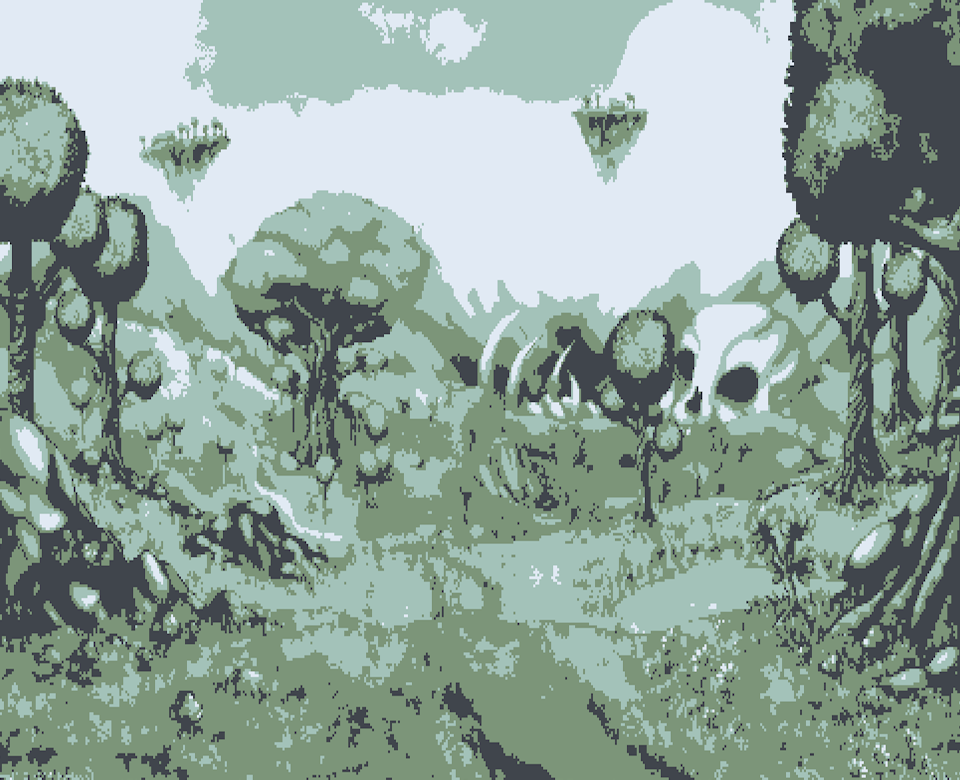
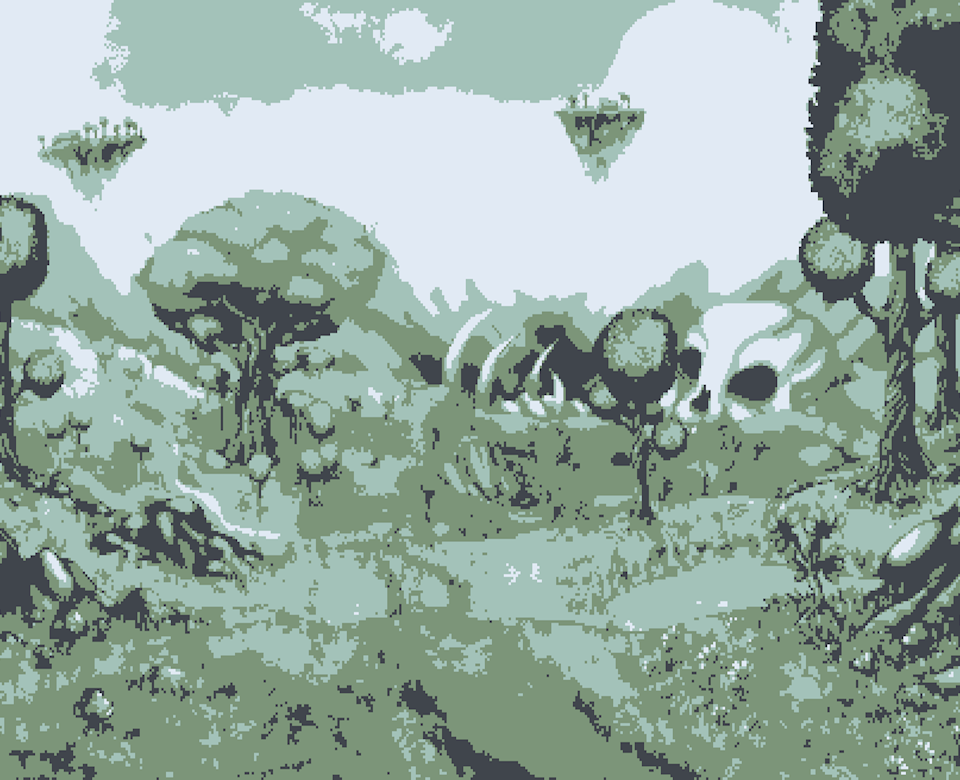
Added a new texture pack.

diff --git a/Honehoover/Honehoover/init.cpp b/Honehoover/Honehoover/init.cpp
@@ -17,28 +17,62 @@ SDL_Texture* Game::loadTexture(const string& path) {
     return texture;
 }
 
-void Game::loadTextures() {
-    textures["antiq"] = loadTexture("../resources/image/antiq.png");
-    textures["cross"] = loadTexture("../resources/image/cross.png");
-    textures["frame"] = loadTexture("../resources/image/frame.png");
-    textures["grass"] = loadTexture("../resources/image/grass.png");
-    textures["clean"] = loadTexture("../resources/image/clean.png");
-    textures["pylon"] = loadTexture("../resources/image/pylon.png");
-    textures["steel"] = loadTexture("../resources/image/steel.png");
-    textures["btton"] = loadTexture("../resources/image/btton.png");
-    textures["bttn1"] = loadTexture("../resources/image/bttn1.png");
-    textures["bttn2"] = loadTexture("../resources/image/bttn2.png");
-    textures["mmnbg"] = loadTexture("../resources/image/mmnbg.png");
-    textures["ldbbg"] = loadTexture("../resources/image/ldbbg.png");
+void Game::loadFonts() {
+    if (altTexture == false) {
+        font = TTF_OpenFont("../resources/font/YomiyasuSansSerif-Rounded.otf", 34);
+    }
+    else {
+        font = TTF_OpenFont("../resources/font/SmashSans-Metaverse.otf", 34);
+    }
+}
 
-    textures["music_on"] = loadTexture("../resources/image/music_on.png");
-    textures["music_off"] = loadTexture("../resources/image/music_off.png");
-    textures["sound_on"] = loadTexture("../resources/image/sound_on.png");
-    textures["sound_off"] = loadTexture("../resources/image/sound_off.png");
-    textures["extra_life_on"] = loadTexture("../resources/image/extralive_on.png");
-    textures["extra_life_off"] = loadTexture("../resources/image/extralive_off.png");
-    textures["textures_on"] = loadTexture("../resources/image/texture_on.png");
-    textures["textures_off"] = loadTexture("../resources/image/texture_off.png");
+void Game::loadTextures() {
+    if (altTexture == false) {
+        textures["antiq"] = loadTexture("../resources/image/antiq.png");
+        textures["cross"] = loadTexture("../resources/image/cross.png");
+        textures["frame"] = loadTexture("../resources/image/frame.png");
+        textures["grass"] = loadTexture("../resources/image/grass.png");
+        textures["clean"] = loadTexture("../resources/image/clean.png");
+        textures["pylon"] = loadTexture("../resources/image/pylon.png");
+        textures["steel"] = loadTexture("../resources/image/steel.png");
+        textures["btton"] = loadTexture("../resources/image/btton.png");
+        textures["bttn1"] = loadTexture("../resources/image/bttn1.png");
+        textures["bttn2"] = loadTexture("../resources/image/bttn2.png");
+        textures["mmnbg"] = loadTexture("../resources/image/mmnbg.png");
+        textures["ldbbg"] = loadTexture("../resources/image/ldbbg.png");
+
+        textures["music_on"] = loadTexture("../resources/image/music_on.png");
+        textures["music_off"] = loadTexture("../resources/image/music_off.png");
+        textures["sound_on"] = loadTexture("../resources/image/sound_on.png");
+        textures["sound_off"] = loadTexture("../resources/image/sound_off.png");
+        textures["extra_life_on"] = loadTexture("../resources/image/extralive_on.png");
+        textures["extra_life_off"] = loadTexture("../resources/image/extralive_off.png");
+        textures["textures_on"] = loadTexture("../resources/image/texture_on.png");
+        textures["textures_off"] = loadTexture("../resources/image/texture_off.png");
+    } else
+    {
+        textures["antiq"] = loadTexture("../resources/image/antiq2.png");
+        textures["cross"] = loadTexture("../resources/image/cross2.png");
+        textures["frame"] = loadTexture("../resources/image/frame2.png");
+        textures["grass"] = loadTexture("../resources/image/grass2.png");
+        textures["clean"] = loadTexture("../resources/image/clean2.png");
+        textures["pylon"] = loadTexture("../resources/image/pylon2.png");
+        textures["steel"] = loadTexture("../resources/image/steel2.png");
+        textures["btton"] = loadTexture("../resources/image/btton2.png");
+        textures["bttn1"] = loadTexture("../resources/image/bttn12.png");
+        textures["bttn2"] = loadTexture("../resources/image/bttn22.png");
+        textures["mmnbg"] = loadTexture("../resources/image/mmnbg2.png");
+        textures["ldbbg"] = loadTexture("../resources/image/ldbbg2.png");
+
+        textures["music_on"] = loadTexture("../resources/image/music_on2.png");
+        textures["music_off"] = loadTexture("../resources/image/music_off2.png");
+        textures["sound_on"] = loadTexture("../resources/image/sound_on2.png");
+        textures["sound_off"] = loadTexture("../resources/image/sound_off2.png");
+        textures["extra_life_on"] = loadTexture("../resources/image/extralive_on2.png");
+        textures["extra_life_off"] = loadTexture("../resources/image/extralive_off2.png");
+        textures["textures_on"] = loadTexture("../resources/image/texture_on2.png");
+        textures["textures_off"] = loadTexture("../resources/image/texture_off2.png");
+    }
 }
 
 void Game::renderTexture(const string& textureId, int x, int y, int width, int height) {

diff --git a/Honehoover/src/game.cpp b/Honehoover/src/game.cpp
@@ -4,7 +4,7 @@
 using namespace std;
 
 Game::Game() : window(nullptr), renderer(nullptr), font(nullptr), currentState(GameState::MAIN_MENU), board(12, 9, 4),
-               currentDifficulty(), gameWon(false),
+               currentDifficulty(), gameWon(false), altTexture(false),
                elapsedSeconds(0), finalTime(0), remainingFlags(0), isNewHighScore(false)
 {
     loadHighScores();
@@ -12,8 +12,8 @@ Game::Game() : window(nullptr), renderer(nullptr), font(nullptr), currentState(G
 	startButton = {{SCREEN_WIDTH / 2 - BUTTON_WIDTH / 2, 200, BUTTON_WIDTH, BUTTON_HEIGHT}, "Start Game"};
 	highScoresButton = {{SCREEN_WIDTH / 2 + BUTTON_WIDTH / 16, 300, BUTTON_WIDTH, BUTTON_HEIGHT},"High Scores"};
 	quitButton = {{SCREEN_WIDTH / 2 + BUTTON_WIDTH / 16, 400, BUTTON_WIDTH, BUTTON_HEIGHT}, "      Quit   "};
-    tutorialButton = { {SCREEN_WIDTH / 2 - BUTTON_WIDTH / 16 - BUTTON_WIDTH, 300, BUTTON_WIDTH, BUTTON_HEIGHT},"   Tutorial" };
-    settingButton = { {SCREEN_WIDTH / 2 - BUTTON_WIDTH / 16 - BUTTON_WIDTH, 400, BUTTON_WIDTH, BUTTON_HEIGHT}, "    Setting" };
+    tutorialButton = { {SCREEN_WIDTH / 2 - BUTTON_WIDTH / 16 - BUTTON_WIDTH, 300, BUTTON_WIDTH, BUTTON_HEIGHT},"  Tutorial" };
+    settingButton = { {SCREEN_WIDTH / 2 - BUTTON_WIDTH / 16 - BUTTON_WIDTH, 400, BUTTON_WIDTH, BUTTON_HEIGHT}, "   Setting" };
     
 	newGameButton = {{SCREEN_WIDTH / 2 - BUTTON_WIDTH / 2, 300, BUTTON_WIDTH, BUTTON_HEIGHT}, "New Game"};
 	backButton = { {20, SCREEN_HEIGHT + 10, BUTTON_WIDTH / 2, BUTTON_HEIGHT / 2} };
@@ -27,7 +27,7 @@ Game::Game() : window(nullptr), renderer(nullptr), font(nullptr), currentState(G
     soundToggle = { {SCREEN_WIDTH / 2+20, SCREEN_HEIGHT / 4 - BUTTON_HEIGHT / 2, BUTTON_WIDTH, BUTTON_HEIGHT}, true, "sound", "Sound Effects" };
     extraLifeToggle = { {BUTTON_WIDTH/2 , SCREEN_HEIGHT / 2 - BUTTON_HEIGHT / 2, BUTTON_WIDTH, BUTTON_HEIGHT}, board.isLifeCheat(), "extra_life", "Extra Life" };
     texturesToggle = { {SCREEN_WIDTH / 2+20, SCREEN_HEIGHT / 2 - BUTTON_HEIGHT / 2, BUTTON_WIDTH, BUTTON_HEIGHT}, false, "textures", "Alt Textures" };
-    creditsButton = { {SCREEN_WIDTH / 2 - BUTTON_WIDTH / 2, SCREEN_HEIGHT / 2 + 2*BUTTON_HEIGHT, BUTTON_WIDTH, BUTTON_HEIGHT}, "Credits" };
+    creditsButton = { {SCREEN_WIDTH / 2 - BUTTON_WIDTH / 2, SCREEN_HEIGHT / 2 + 2*BUTTON_HEIGHT, BUTTON_WIDTH, BUTTON_HEIGHT}, "   Credits" };
 }
 
 Game::~Game() {
@@ -73,7 +73,7 @@ bool Game::initSDL() {
         return false;
     }
 
-    font = TTF_OpenFont("../resources/font/SmashSans-Metaverse.otf", 34);
+    loadFonts();
     if (font == nullptr) {
         cout << "Failed to load font! TTF_Error: " << TTF_GetError() << "\n";
         return false;

diff --git a/Honehoover/hdr/game.h b/Honehoover/hdr/game.h
@@ -79,7 +79,7 @@ private:
 
     const Uint8 clamp(const int val, const int lower, const int upper);
 
-
+	void loadFonts();
 
     map<string, SDL_Texture*> textures;
     SDL_Texture* loadTexture(const string& path);
@@ -181,4 +181,5 @@ private:
     void toggleSoundEffects() const;
     void toggleExtraLife();
     void toggleTextures();
+    bool altTexture;
 };

diff --git a/Honehoover/src/getset.cpp b/Honehoover/src/getset.cpp
@@ -216,5 +216,7 @@ void Game::toggleExtraLife() {
 }
 
 void Game::toggleTextures() {
-    //useAlternativeTextures = texturesToggle.isOn;
+    altTexture = !altTexture;
+    loadTextures();
+    loadFonts();
 }
